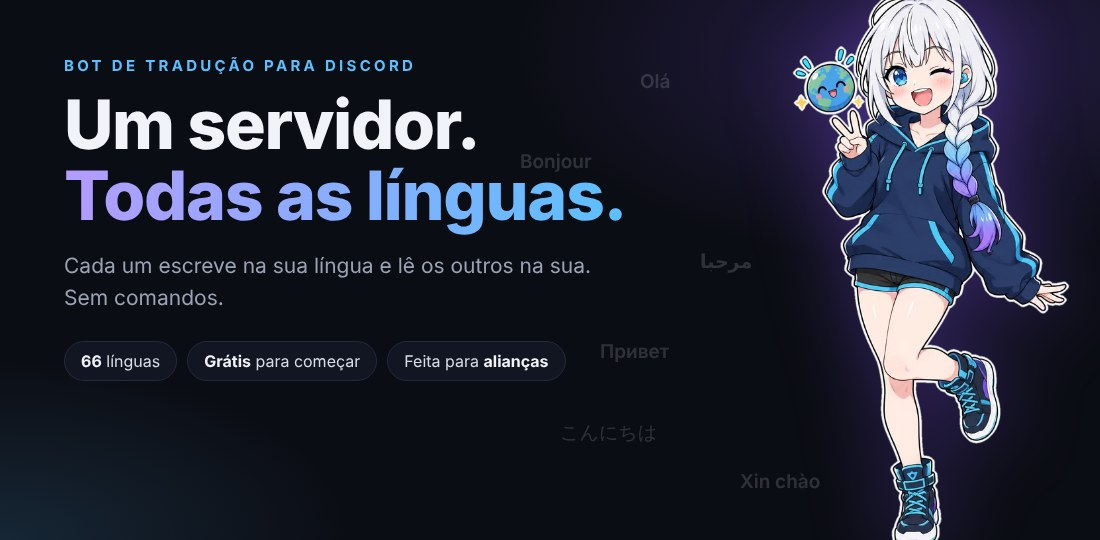
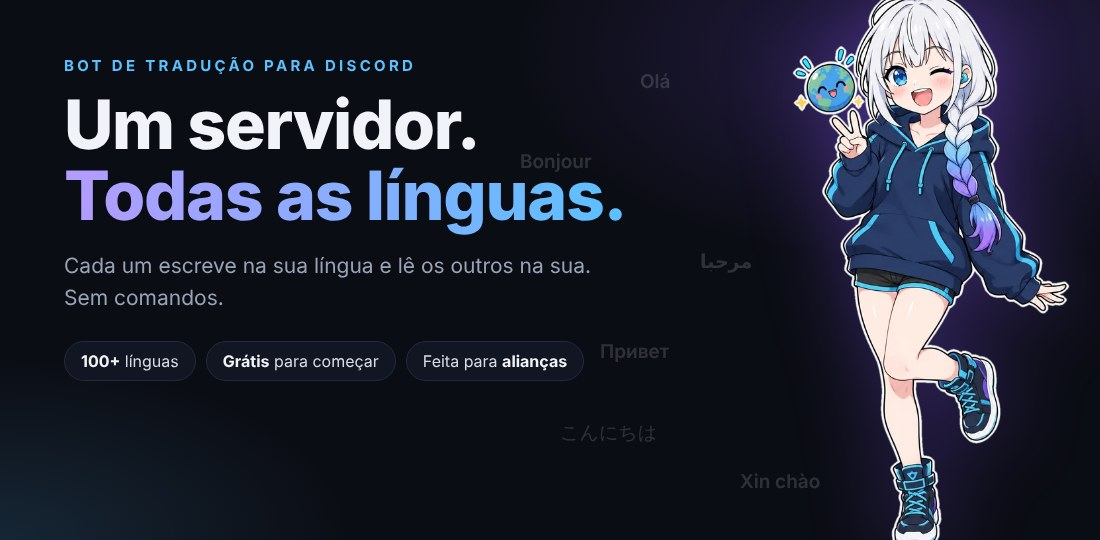
Bandeira: mais de uma língua por país (108 no total) e todas as bandeiras do mundo
- LINGUAS_DO_PAIS: país com várias línguas (Índia, Espanha, Suíça, África
  do Sul, Nigéria, Bélgica, Canadá...) traduz na de sempre e mostra um menu
  no mesmo cartão para escolher outra. É assim que entram as 42 línguas sem
  bandeira própria (tâmil, telugu, catalão, basco, iorubá, galês, curdo...).
- cartaoDaBandeira/cliqueBandeiraLingua: o menu leva servidor, canal,
  mensagem e quem reagiu; só essa pessoa troca, com o limite por minuto.
- BANDEIRAS_DO_RESTO_DO_MUNDO: ilhas e territórios; qualquer bandeira de
  país traduz alguma coisa.
- Azure: curdo vai como kmr (o kurmanji do Google).
- top.gg/site: "100+ línguas", arte didática "Traduza com uma bandeira"
  (reaja → leia no privado → escolha a sua) e o texto da página explicando.

Claude-Session: https://claude.ai/code/session_01KEoVPUpsqnUtDW8kuRSzxb

Changed region(s): [[0.1855, 0.6519, 0.5255, 0.6815], [0.0618, 0.6519, 0.1545, 0.6815]]

diff --git a/discord-bot-gateway/index.js b/discord-bot-gateway/index.js
@@ -736,9 +736,74 @@ const PAIS_DA_BANDEIRA_EXTRA = {
   SR: "nl", SM: "it", VA: "it",
 };
 
+/* O RESTO DAS BANDEIRAS DO MUNDO: ilhas e territorios, cada um com a lingua
+   que a maioria la' le'. Com isto, qualquer bandeira de pais que alguem
+   aperte traduz alguma coisa (so' 🇦🇶 e as que nao sao de pais ficam de fora). */
+const BANDEIRAS_DO_RESTO_DO_MUNDO = {
+  AG: "en", AI: "en", AS: "en", BB: "en", BM: "en", BS: "en", BW: "en", BZ: "en", CC: "en", CK: "en",
+  CX: "en", DM: "en", FJ: "en", FK: "en", FM: "en", GD: "en", GG: "en", GI: "en", GM: "en", GS: "en",
+  GU: "en", GY: "en", HM: "en", IM: "en", IO: "en", JE: "en", KI: "en", KN: "en", KY: "en", LC: "en",
+  LR: "en", LS: "en", MH: "en", MP: "en", MS: "en", MU: "en", NA: "en", NF: "en", NR: "en", NU: "en",
+  PG: "en", PN: "en", PW: "en", SB: "en", SC: "en", SH: "en", SL: "en", SS: "en", SZ: "en", TC: "en",
+  TK: "en", TT: "en", TV: "en", UM: "en", VC: "en", VG: "en", VI: "en", VU: "en", BT: "en",
+  BI: "fr", BL: "fr", CF: "fr", DJ: "fr", GF: "fr", GP: "fr", KM: "fr", MF: "fr", MQ: "fr", NC: "fr",
+  PF: "fr", PM: "fr", RE: "fr", TF: "fr", WF: "fr", YT: "fr",
+  AW: "nl", BQ: "nl", CW: "nl", SX: "nl", AX: "sv", BV: "no", SJ: "no", FO: "da", GL: "da",
+  AD: "ca", EH: "ar", BN: "ms",
+};
+
+/* MAIS DE UMA LINGUA POR BANDEIRA (dono, 24/11: "mais idiomas por bandeira e'
+   justo"). A India fala hindi, tamil, telugu, bengali...; a Espanha, espanhol,
+   catalao, basco e galego. A bandeira traduz na PRIMEIRA (a de sempre) e, no
+   mesmo cartao, oferece as outras num menu: quem reagiu com 🇮🇳 e le' tamil
+   escolhe tamil. E' assim que entram as linguas que nao tem bandeira propria
+   -- nao existe emoji para "tamil" ou "catalao". */
+const LINGUAS_SEM_BANDEIRA = [
+  ["ta", "Tâmil", "🇮🇳", "தமிழ்"], ["te", "Telugu", "🇮🇳", "తెలుగు"], ["mr", "Marati", "🇮🇳", "मराठी"],
+  ["gu", "Guzerate", "🇮🇳", "ગુજરાતી"], ["pa", "Punjabi", "🇮🇳", "ਪੰਜਾਬੀ"], ["kn", "Canarês", "🇮🇳", "ಕನ್ನಡ"],
+  ["ml", "Malaiala", "🇮🇳", "മലയാളം"], ["or", "Oriá", "🇮🇳", "ଓଡ଼ିଆ"], ["as", "Assamês", "🇮🇳", "অসমীয়া"],
+  ["ca", "Catalão", "🇪🇸", "Català"], ["eu", "Basco", "🇪🇸", "Euskara"], ["gl", "Galego", "🇪🇸", "Galego"],
+  ["af", "Africâner", "🇿🇦", "Afrikaans"], ["zu", "Zulu", "🇿🇦", "isiZulu"], ["xh", "Xhosa", "🇿🇦", "isiXhosa"],
+  ["ha", "Hauçá", "🇳🇬", "Hausa"], ["yo", "Iorubá", "🇳🇬", "Yorùbá"], ["ig", "Igbo", "🇳🇬", "Igbo"],
+  ["ceb", "Cebuano", "🇵🇭", "Cebuano"], ["cy", "Galês", "🇬🇧", "Cymraeg"], ["gd", "Gaélico escocês", "🇬🇧", "Gàidhlig"],
+  ["ga", "Irlandês", "🇮🇪", "Gaeilge"], ["lb", "Luxemburguês", "🇱🇺", "Lëtzebuergesch"], ["mi", "Maori", "🇳🇿", "Māori"],
+  ["haw", "Havaiano", "🇺🇸", "ʻŌlelo Hawaiʻi"], ["qu", "Quíchua", "🇵🇪", "Runa Simi"], ["ay", "Aimará", "🇧🇴", "Aymar aru"],
+  ["gn", "Guarani", "🇵🇾", "Avañe'ẽ"], ["ku", "Curdo", "🇮🇶", "Kurdî"], ["ps", "Pashto", "🇦🇫", "پښتو"],
+  ["sd", "Sindi", "🇵🇰", "سنڌي"], ["om", "Oromo", "🇪🇹", "Afaan Oromoo"], ["ti", "Tigrínia", "🇪🇷", "ትግርኛ"],
+  ["tt", "Tártaro", "🇷🇺", "Татар"], ["ug", "Uigur", "🇨🇳", "ئۇيغۇرچە"], ["rw", "Quiniaruanda", "🇷🇼", "Kinyarwanda"],
+  ["ny", "Chichewa", "🇲🇼", "Chichewa"], ["dv", "Divehi", "🇲🇻", "ދިވެހި"], ["si", "Cingalês", "🇱🇰", "සිංහල"],
+  ["fy", "Frísio", "🇳🇱", "Frysk"], ["tg", "Tadjique", "🇹🇯", "Тоҷикӣ"], ["be", "Bielorrusso", "🇧🇾", "Беларуская"],
+];
+
+/* País -> as linguas dele, a primeira e' a que a bandeira usa sem perguntar
+   (a mesma de antes: um teste confere). Ate' 25 por pais, o teto do menu. */
+const LINGUAS_DO_PAIS = {
+  IN: ["hi", "bn", "ta", "te", "mr", "gu", "ur", "pa", "kn", "ml", "or", "as", "en"],
+  ES: ["es", "ca", "eu", "gl"], CH: ["de", "fr", "it"], BE: ["nl", "fr", "de"], CA: ["en", "fr"],
+  ZA: ["en", "af", "zu", "xh"], NG: ["en", "ha", "yo", "ig"], PH: ["tl", "ceb", "en"], GB: ["en", "cy", "gd"],
+  IE: ["en", "ga"], FI: ["fi", "sv"], LU: ["fr", "de", "lb"], SG: ["zh-CN", "en", "ms", "ta"],
+  MY: ["ms", "en", "zh-CN", "ta"], NZ: ["en", "mi"], US: ["en", "es", "haw"], PE: ["es", "qu"],
+  BO: ["es", "qu", "ay"], PY: ["es", "gn"], IQ: ["ar", "ku"], TR: ["tr", "ku"], AF: ["fa", "ps"],
+  PK: ["ur", "pa", "sd", "en"], ET: ["am", "om", "ti"], ER: ["ti", "ar"], RU: ["ru", "tt"], CN: ["zh-CN", "ug"],
+  LK: ["si", "ta"], KE: ["sw", "en"], TZ: ["sw", "en"], NL: ["nl", "fy"], BY: ["ru", "be"], TJ: ["tg", "ru"],
+  IL: ["he", "ar"], MA: ["ar", "fr"], DZ: ["ar", "fr"], TN: ["ar", "fr"], CY: ["el", "tr"], RW: ["rw", "fr", "en"],
+  MW: ["ny", "en"], MV: ["dv", "en"], HT: ["ht", "fr"], CM: ["fr", "en"], KZ: ["kk", "ru"],
+};
+
+/* Pura. As linguas que a bandeira deste pais oferece (a primeira e' a usada). */
+function linguasDaBandeira(emoji) {
+  const pais = paisDaBandeira(emoji);
+  if (!pais) return [];
+  const varias = LINGUAS_DO_PAIS[pais];
+  if (varias?.length) return [...varias];
+  const uma = IDIOMA_DO_PAIS[pais] || PAIS_DA_BANDEIRA_EXTRA[pais] || BANDEIRAS_DO_RESTO_DO_MUNDO[pais];
+  return uma ? [uma] : [];
+}
+
 function idiomaDaBandeira(emoji) {
   const pais = paisDaBandeira(emoji);
-  if (pais) return IDIOMA_DO_PAIS[pais] || PAIS_DA_BANDEIRA_EXTRA[pais] || "";
+  if (pais) return IDIOMA_DO_PAIS[pais] || LINGUAS_DO_PAIS[pais]?.[0] || PAIS_DA_BANDEIRA_EXTRA[pais] ||
+    BANDEIRAS_DO_RESTO_DO_MUNDO[pais] || "";
   /* Lingua cujo sinal no menu nao e' bandeira (a lanterna do chines
      tradicional): reagir com o sinal que o proprio bot mostra traduz. */
   const achado = LINGUAS_MENU.find(([, , sinal]) => sinal === emoji && !paisDaBandeira(sinal));
@@ -1221,7 +1286,9 @@ function decifrar(guardado) {
 }
 
 /* Cada tradutor chama os idiomas do seu jeito. */
-const AZURE_IDIOMA = { "zh-CN": "zh-Hans", "zh-TW": "zh-Hant", tl: "fil", no: "nb", sr: "sr-Cyrl", mn: "mn-Cyrl" };
+const AZURE_IDIOMA = { "zh-CN": "zh-Hans", "zh-TW": "zh-Hant", tl: "fil", no: "nb", sr: "sr-Cyrl", mn: "mn-Cyrl",
+  /* O curdo do Google ("ku") e' o kurmanji; o "ku" da Azure e' o sorani. */
+  ku: "kmr" };
 const DEEPL_IDIOMA = { pt: "PT-BR", en: "EN-US", "zh-CN": "ZH-HANS", "zh-TW": "ZH-HANT", no: "NB" };
 /* O que o DeepL traduz (destino). Fora disso ele recusa -- e recusa nao pode
    virar "o DeepL deste servidor esta' falhando" no painel por causa de uma
@@ -5427,11 +5494,18 @@ const SEGUNDOS_ENTRE_FALAS = 5;
 
 /* Pura. A lingua existe so' na bandeira (nao tem sala nem menu)? */
 function linguaSoDaBandeira(cod) {
-  return LINGUAS_DA_BANDEIRA.some(([c]) => c === cod) && !LINGUAS_MENU.some(([c]) => c === cod);
+  return (LINGUAS_DA_BANDEIRA.some(([c]) => c === cod) || LINGUAS_SEM_BANDEIRA.some(([c]) => c === cod)) &&
+    !LINGUAS_MENU.some(([c]) => c === cod);
+}
+
+/* Pura. A linha da lingua em qualquer das tres tabelas: [codigo, nome, sinal, nome proprio]. */
+function linhaDaLingua(cod) {
+  return LINGUAS_MENU.find(([c]) => c === cod) || LINGUAS_DA_BANDEIRA.find(([c]) => c === cod) ||
+    LINGUAS_SEM_BANDEIRA.find(([c]) => c === cod) || null;
 }
 
 function nomeDoIdioma(cod) {
-  const achado = LINGUAS_MENU.find(([c]) => c === cod) || LINGUAS_DA_BANDEIRA.find(([c]) => c === cod);
+  const achado = linhaDaLingua(cod);
   return achado ? `${achado[2]} ${achado[1]}` : cod;
 }
 
@@ -27739,6 +27813,7 @@ client.on("interactionCreate", async (inter) => {
       if (inter.customId === "escolher-idioma") return await cliqueEscolherIdioma(inter);
       if (inter.customId.startsWith("traduzir-msg:")) return await cliqueTraduzirMsg(inter);
       if (inter.customId.startsWith("traduzir-fixo:")) return await cliqueTraduzirFixo(inter);
+      if (inter.customId.startsWith("bandeira:")) return await cliqueBandeiraLingua(inter);
       return;
     }
     /* Autocompletar do nome do evento: sem isto o oficial teria que digitar
@@ -28217,20 +28292,8 @@ client.on("messageReactionAdd", async (reacao, quem) => {
       return;
     }
 
-    /* Quem falou vem no cabecalho porque, no privado, a fala chega fora da
-       sala: sem o nome e sem o link de volta, e' um texto solto que a pessoa
-       nao consegue situar nem responder. */
-    const autor = msg.member?.displayName || msg.author?.username || "";
-    const onde = await entregarNoPrivado(quem, msg.channel, {
-      embeds: [{
-        color: COR,
-        author: autor ? { name: autor, icon_url: msg.author?.displayAvatarURL?.() } : undefined,
-        title: nomeDoIdioma(idioma),
-        description: traduzido.slice(0, 3800) + (msg.url ? `\n\n[⤴ Voltar / Back](${msg.url})` : "") +
-          rodapeDeDivulgacao(servidor),
-        footer: { text: `#${msg.channel?.name || ""} · ${msg.guild.name}` },
-      }],
-    });
+    const onde = await entregarNoPrivado(quem, msg.channel,
+      cartaoDaBandeira(msg, idioma, traduzido, rodapeDeDivulgacao(servidor), linguasDaBandeira(reacao.emoji?.name), quem.id));
     if (!onde) return; // nem privado nem sala: nao ha o que limpar
     contarUso("bandeira", msg.guild.id);
 
@@ -28244,6 +28307,74 @@ client.on("messageReactionAdd", async (reacao, quem) => {
     console.error("bandeira: nao consegui traduzir:", e?.message || e);
   }
 });
+
+/* O cartao da traducao por bandeira, o mesmo na reacao e na troca de lingua.
+
+   Quem falou vem no cabecalho porque, no privado, a fala chega fora da sala:
+   sem o nome e sem o link de volta, e' um texto solto que a pessoa nao
+   consegue situar nem responder.
+
+   Pais com mais de uma lingua ganha um menu embaixo, com uma frase curta
+   dizendo o que ele faz -- didatico, nas duas linguas, porque quem reagiu
+   ainda nao escolheu a dele. O menu leva no nome o servidor, o canal, a
+   mensagem e QUEM reagiu: no privado so' essa pessoa o ve; na sala (privado
+   fechado), so' ela consegue usar. */
+function cartaoDaBandeira(msg, idioma, traduzido, rodape = "", linguas = [], quem = "") {
+  const autor = msg.member?.displayName || msg.author?.username || "";
+  const outras = (linguas || []).filter((l) => l !== idioma && linhaDaLingua(l)).slice(0, 25);
+  const varias = outras.length > 0;
+  return {
+    embeds: [{
+      color: COR,
+      author: autor ? { name: autor, icon_url: msg.author?.displayAvatarURL?.() } : undefined,
+      title: nomeDoIdioma(idioma),
+      description: String(traduzido || "").slice(0, 3800) + (msg.url ? `\n\n[⤴ Voltar / Back](${msg.url})` : "") +
+        (varias ? "\n\n-# 🌐 Este país fala mais de uma língua: escolha outra no menu · " +
+          "This country speaks more than one language: pick another below" : "") + rodape,
+      footer: { text: `#${msg.channel?.name || ""} · ${msg.guild?.name || ""}` },
+    }],
+    ...(varias ? { components: [{ type: 1, components: [{
+      type: 3,
+      custom_id: `bandeira:${msg.guild?.id}:${msg.channel?.id}:${msg.id}:${quem}`.slice(0, 100),
+      placeholder: "🌐 Outra língua · Another language",
+      options: [idioma, ...outras].map((l) => {
+        const [, nome, sinal, proprio] = linhaDaLingua(l);
+        return { label: (proprio && proprio !== nome ? `${proprio} · ${nome}` : nome).slice(0, 100), value: l,
+          emoji: { name: sinal }, default: l === idioma };
+      }),
+    }] }] } : {}),
+  };
+}
+
+/* A troca de lingua no menu do cartao: traduz a mesma mensagem para a lingua
+   escolhida e redesenha o cartao no lugar. So' quem reagiu troca. */
+async function cliqueBandeiraLingua(inter) {
+  const [, guildId, canalId, msgId, dono] = inter.customId.split(":");
+  const lingua = inter.values?.[0];
+  if (dono && inter.user.id !== dono) {
+    return inter.reply({ flags: 64, content: "🌐 Esse menu é de quem reagiu com a bandeira. Reaja você também!\n" +
+      "_This menu belongs to whoever reacted. React with the flag yourself!_" });
+  }
+  if (!lingua || !linhaDaLingua(lingua)) return inter.deferUpdate().catch(() => {});
+  if (!podeTraduzirAgora(inter.user.id)) {
+    return inter.reply({ flags: 64, content: "⏳ Calma aí, tente de novo em um minuto. · _Slow down, try again in a minute._" });
+  }
+  await inter.deferUpdate();
+  const canal = await client.channels.fetch(canalId).catch(() => null);
+  const msg = canal?.messages ? await canal.messages.fetch(msgId).catch(() => null) : null;
+  const texto = msg ? textoDaMensagem(msg) : "";
+  if (!texto) {
+    return inter.followUp({ flags: 64, content: "A mensagem original não existe mais. · _The original message is gone._" }).catch(() => {});
+  }
+  const servidor = await servidorDoGuild(guildId).catch(() => null);
+  const traduzido = await traduzirLongo(texto, lingua, motorDe(servidor));
+  if (!traduzido) {
+    return inter.followUp({ flags: 64, content: "❌ Não consegui traduzir agora. · _Could not translate right now._" }).catch(() => {});
+  }
+  const linguas = (inter.message?.components?.[0]?.components?.[0]?.options || []).map((o) => o.value);
+  contarUso("bandeira", guildId);
+  return inter.editReply(cartaoDaBandeira(msg, lingua, traduzido, rodapeDeDivulgacao(servidor), linguas, dono));
+}
 
 /* ---------------- os comandos que aparecem em cada servidor -----------------
 

diff --git a/video-divulgacao/arte-topgg.html b/video-divulgacao/arte-topgg.html
@@ -79,6 +79,14 @@
   .nao li::before { content:"✕"; background:rgba(154,163,181,.14); color:var(--fraco) }
   .sim li::before { content:"✓"; background:linear-gradient(135deg,var(--roxo),var(--azul)); color:#fff }
 
+  /* a bandeira em três passos */
+  .passo { position:relative }
+  .passo .num { position:absolute; top:18px; right:20px; width:30px; height:30px; border-radius:50%; display:grid; place-items:center;
+    font-weight:800; font-size:15px; background:linear-gradient(135deg,var(--roxo),var(--azul)) }
+  .pilhas { display:flex; flex-wrap:wrap; gap:8px; margin-top:14px }
+  .pilhas span { border:1px solid var(--borda); border-radius:999px; padding:5px 12px; font-size:15px; color:#D8DCE7 }
+  .pilhas .sel { border-color:transparent; background:linear-gradient(90deg,var(--roxo),var(--azul)); color:#fff; font-weight:700 }
+
   /* botão */
   #botao { height:210px; display:none; place-items:center; padding:0 }
   #botao.ativa { display:grid }
@@ -159,6 +167,16 @@
   </div>
 </section>
 
+<section class="parte" id="bandeira">
+  <h2 data-t="bd"></h2>
+  <div class="grade" style="grid-template-columns:repeat(3,1fr)">
+    <div class="cartao passo"><div class="num">1</div><div class="ic">🇮🇳</div><h3 data-t="bd1t"></h3><p data-t="bd1"></p></div>
+    <div class="cartao passo"><div class="num">2</div><div class="ic">📩</div><h3 data-t="bd2t"></h3><p data-t="bd2"></p></div>
+    <div class="cartao passo"><div class="num">3</div><div class="ic">🌐</div><h3 data-t="bd3t"></h3><p data-t="bd3"></p>
+      <div class="pilhas"><span>हिन्दी</span><span class="sel">தமிழ்</span><span>తెలుగు</span><span>বাংলা</span></div></div>
+  </div>
+</section>
+
 <section class="parte" id="botao">
   <div class="bt"><span class="mais">+</span> <span data-t="bt"></span> <small data-t="btSub"></small></div>
 </section>
@@ -168,11 +186,11 @@ const TEXTOS = {
   en: {
     rotulo: "Discord translation bot", titulo1: "One server.", titulo2: "Every language.",
     sub: "Everyone writes in their own language and reads everyone else in theirs. No commands.",
-    chip1: "<b>66</b> languages", chip2: "<b>Free</b> to start", chip3: "Built for <b>alliances</b>",
+    chip1: "<b>100+</b> languages", chip2: "<b>Free</b> to start", chip3: "Built for <b>alliances</b>",
     como: "Same conversation, every language", escreveu: "written in Portuguese",
     comoSub: "Each member picks a language and chats in their own room. Every message lands in the other rooms, translated, with the author's name and avatar.",
     recursos: "Translation everywhere",
-    r1t: "React with a flag", r1: "Any message, in 66 languages, translated privately for whoever reacted.",
+    r1t: "React with a flag", r1: "Any message, in 100+ languages, privately. Several languages in a country? Pick yours.",
     r2t: "Announcements", r2: "Post once, it lands in every language.",
     r3t: "Screenshots", r3: "Reads the text in an image and translates it.",
     r4t: "Voice notes", r4: "Transcribed and translated.",
@@ -183,20 +201,23 @@ const TEXTOS = {
     k2t: "Hero book", k2: "Every hero, with tips to lead and join rallies.",
     k3t: "Duels & levels", k3: "Hero cards, duels, levels, role panels and welcome images.",
     bt: "Add CYRON to Discord", btSub: "free",
+    bd: "Translate with a flag", bd1t: "React with a flag", bd1: "Any country flag, on any message.",
+    bd2t: "Read it in private", bd2: "The translation arrives in your DMs. Nobody else sees it.",
+    bd3t: "Several languages?", bd3: "Countries like India, Spain or Switzerland let you pick yours.",
     cmp: "Why CYRON", cmpOutro: "Typical free plan",
     o1: "100 translations a month per member, or 10,000 characters", o2: "Vote to unlock more quota",
     o3: "You link channels by hand, one by one", o4: "Translation only",
     c1: "Flag and translate button with no limit, free", c2: "Members pick a language at the door; CYRON builds the rooms",
-    c3: "Kingshot tools: Bear Trap card, hero book, events in every time zone", c4: "Flag translation in 66 languages, language rooms in 22",
+    c3: "Kingshot tools: Bear Trap card, hero book, events in every time zone", c4: "Flag translation in 100+ languages, language rooms in 22",
   },
   pt: {
     rotulo: "Bot de tradução para Discord", titulo1: "Um servidor.", titulo2: "Todas as línguas.",
     sub: "Cada um escreve na sua língua e lê os outros na sua. Sem comandos.",
-    chip1: "<b>66</b> línguas", chip2: "<b>Grátis</b> para começar", chip3: "Feita para <b>alianças</b>",
+    chip1: "<b>100+</b> línguas", chip2: "<b>Grátis</b> para começar", chip3: "Feita para <b>alianças</b>",
     como: "A mesma conversa, em todas as línguas", escreveu: "escrito em português",
     comoSub: "Cada membro escolhe a língua e conversa na sala dele. Cada mensagem chega nas outras salas traduzida, com o nome e a foto de quem escreveu.",
     recursos: "Tradução em todo lugar",
-    r1t: "Reaja com uma bandeira", r1: "Qualquer mensagem, em 66 línguas, traduzida no privado de quem reagiu.",
+    r1t: "Reaja com uma bandeira", r1: "Qualquer mensagem, em mais de 100 línguas, no privado. País com várias? Você escolhe.",
     r2t: "Avisos", r2: "Você posta uma vez e chega em todas as línguas.",
     r3t: "Prints", r3: "Lê o texto da imagem e traduz.",
     r4t: "Áudios", r4: "Transcritos e traduzidos.",
@@ -207,11 +228,14 @@ const TEXTOS = {
     k2t: "Livro dos heróis", k2: "Cada herói, com dicas para liderar e entrar em rally.",
     k3t: "Duelos e níveis", k3: "Cartas de herói, duelos, níveis, painel de cargos e boas-vindas.",
     bt: "Adicionar a CYRON", btSub: "grátis",
+    bd: "Traduza com uma bandeira", bd1t: "Reaja com a bandeira", bd1: "De qualquer país, em qualquer mensagem.",
+    bd2t: "Leia no privado", bd2: "A tradução chega no seu privado. Ninguém mais vê.",
+    bd3t: "Várias línguas?", bd3: "País como Índia, Espanha ou Suíça deixa você escolher a sua.",
     cmp: "Por que a CYRON", cmpOutro: "Plano grátis comum",
     o1: "100 traduções por mês por pessoa, ou 10 mil caracteres", o2: "Votar para ganhar mais cota",
     o3: "Você liga canal com canal, na mão", o4: "Só tradução",
     c1: "Bandeira e botão de tradução sem limite, de graça", c2: "Cada um escolhe a língua na entrada e a CYRON monta as salas",
-    c3: "Ferramentas de Kingshot: Urso, livro dos heróis, eventos no fuso de cada um", c4: "Bandeira em 66 línguas, salas em 22",
+    c3: "Ferramentas de Kingshot: Urso, livro dos heróis, eventos no fuso de cada um", c4: "Bandeira em mais de 100 línguas, salas em 22",
   },
 };
 const q = new URLSearchParams(location.search);

diff --git a/discord-bot-gateway/testes.js b/discord-bot-gateway/testes.js
@@ -202,6 +202,7 @@ Object.assign(globalThis, carregar(["TIPOS_DAS_SALAS_DO_JOGO"]));
 /* As linguas que so' a bandeira atende: a bandeira, o nome do idioma e os
    motores consultam estas tabelas. */
 Object.assign(globalThis, carregar(["paisDaBandeira", "LINGUAS_DA_BANDEIRA", "PAIS_DA_BANDEIRA_EXTRA",
+  "BANDEIRAS_DO_RESTO_DO_MUNDO", "LINGUAS_SEM_BANDEIRA", "LINGUAS_DO_PAIS",
   "linguaSoDaBandeira", "DEEPL_ACEITA", "motorAceita"]));
 /* O import do index que o FUNCOES usa (a função dos códigos nasce ligada nos servidores de Kingshot). */
 Object.assign(globalThis, { pareceKingshot: (await import("./codigos-jogo.js")).pareceKingshot });
@@ -2597,6 +2598,48 @@ function conferirCartao(onde, embed, componentes = []) {
      marcado como falhando no painel. */
   verdade("o DeepL é pulado nas línguas que ele não tem", !motorAceita("deepl", "mn") && motorAceita("deepl", "el") &&
     motorAceita("azure", "mn") && motorAceita("auto", "mn"));
+
+  /* MAIS DE UMA LÍNGUA POR BANDEIRA: a bandeira traduz na primeira (a de
+     sempre) e oferece as outras num menu no mesmo cartão. É por aqui que
+     entram as línguas sem bandeira própria (tâmil, catalão, iorubá...). */
+  {
+    const { linguasDaBandeira, linhaDaLingua, nomeDoIdioma, cartaoDaBandeira } =
+      carregar(["linguasDaBandeira", "linhaDaLingua", "nomeDoIdioma", "cartaoDaBandeira"]);
+    const bandeiraDe = (pais) => [...pais].map((c) => String.fromCodePoint(0x1f1e6 + c.charCodeAt(0) - 65)).join("");
+    const errados = Object.entries(LINGUAS_DO_PAIS)
+      .filter(([pais, ls]) => idiomaDaBandeira(bandeiraDe(pais)) !== ls[0] || ls.some((l) => !linhaDaLingua(l)) || ls.length > 25)
+      .map(([pais]) => pais);
+    ok("em todo país com várias línguas, a primeira é a de sempre, e todas têm nome", errados, []);
+    ok("Índia: hindi primeiro, e tâmil no menu", [linguasDaBandeira("🇮🇳")[0], linguasDaBandeira("🇮🇳").includes("ta")], ["hi", true]);
+    ok("Espanha: espanhol, catalão, basco e galego", linguasDaBandeira("🇪🇸"), ["es", "ca", "eu", "gl"]);
+    ok("país de uma língua só não ganha menu", linguasDaBandeira("🇯🇵"), ["ja"]);
+    ok("Andorra lê em catalão", idiomaDaBandeira("🇦🇩"), "ca");
+    ok("e uma ilha do Caribe, em inglês", idiomaDaBandeira("🇧🇧"), "en");
+    ok("nome de língua sem bandeira própria", nomeDoIdioma("ta"), "🇮🇳 Tâmil");
+    const todas = new Set([...LINGUAS_MENU, ...LINGUAS_DA_BANDEIRA, ...LINGUAS_SEM_BANDEIRA].map(([c]) => c));
+    verdade(`passa de 100 línguas (tem ${todas.size})`, todas.size >= 100);
+    ok("e nenhuma língua aparece em duas tabelas", todas.size,
+      LINGUAS_MENU.length + LINGUAS_DA_BANDEIRA.length + LINGUAS_SEM_BANDEIRA.length);
+
+    globalThis.COR = globalThis.COR || 0x5865F2;
+    const msg = { id: "m1", url: "https://discord.com/channels/g1/c1/m1", guild: { id: "g1", name: "Servidor" },
+      channel: { id: "c1", name: "geral" }, author: { username: "ana", displayAvatarURL: () => "https://x/a.png" },
+      member: { displayName: "Ana" } };
+    const cartao = cartaoDaBandeira(msg, "hi", "नमस्ते", "", linguasDaBandeira("🇮🇳"), "u1");
+    const menu = cartao.components?.[0]?.components?.[0];
+    verdade("Índia: o cartão traz o menu das outras línguas", menu?.type === 3 && menu.options.length === 13);
+    ok("com o nome que diz servidor, canal, mensagem e quem reagiu", menu?.custom_id, "bandeira:g1:c1:m1:u1");
+    verdade("a língua mostrada vem marcada", menu.options.find((o) => o.default)?.value === "hi");
+    verdade("e uma frase curta explicando, nas duas línguas",
+      /mais de uma língua/.test(cartao.embeds[0].description) && /more than one language/.test(cartao.embeds[0].description));
+    const simples = cartaoDaBandeira(msg, "ja", "こんにちは", "", ["ja"], "u1");
+    verdade("país de uma língua: cartão sem menu e sem a frase", !simples.components && !/mais de uma língua/.test(simples.embeds[0].description));
+    const fonte2 = semComentarios(readFileSync(`${aqui}/index.js`, "utf8"));
+    verdade("o menu da bandeira é tratado", /inter\.customId\.startsWith\("bandeira:"\)\) return await cliqueBandeiraLingua\(inter\)/.test(fonte2));
+    const clique = semComentarios(pedaco("cliqueBandeiraLingua"));
+    verdade("só quem reagiu troca a língua", /if \(dono && inter\.user\.id !== dono\)/.test(clique));
+    verdade("e a troca respeita o limite por minuto", /podeTraduzirAgora\(inter\.user\.id\)/.test(clique));
+  }
   ok("joinha não vira idioma", idiomaDaBandeira("👍"), "");
 
   /* Regressão que importa: se alguém trocar a bandeira de uma linha do menu,

diff --git a/discord-bot-gateway/topgg-pagina.js b/discord-bot-gateway/topgg-pagina.js
@@ -61,9 +61,13 @@ export function paginaDoTopgg({ beta = false } = {}) {
         "- Typical free plans stop at around 100 translations a month per member (or 10,000 characters), and ask for votes to unlock more.",
         "- CYRON's flag and translate button have no monthly limit. Members pick a language at the door and CYRON builds the rooms — no linking channels by hand. And it ships Kingshot tools no translator has.",
         "",
+        "## Translate with a flag",
+        arte("bandeira", "en", "React with a flag, read it in private, pick your language"),
+        "React with any country flag and the translation arrives in your DMs. Countries with several languages let you pick yours.",
+        "",
         "## Translation everywhere",
         arte("recursos", "en", "Flags, announcements, screenshots, voice notes, glossary and events"),
-        "- 🏳 **React with a flag** — any message, in **66 languages**, translated privately for whoever reacted.",
+        "- 🏳 **React with a flag** — any message, in **100+ languages**, translated privately for whoever reacted. Country with several languages (🇮🇳 🇪🇸 🇨🇭)? Pick yours from a menu.",
         "- 📢 **Announcements** — post once, it lands in every language.",
         "- 🖼 **Screenshots** — reads the text in an image and translates it.",
         "- 🎧 **Voice notes** — transcribed and translated.",
@@ -107,9 +111,13 @@ export function paginaDoTopgg({ beta = false } = {}) {
         "- Os planos grátis comuns param em umas 100 traduções por mês por pessoa (ou 10 mil caracteres) e pedem voto para liberar mais.",
         "- Na CYRON a bandeira e o botão de tradução não têm limite mensal. Cada um escolhe a língua na entrada e a CYRON monta as salas — sem ligar canal na mão. E ela traz ferramentas de Kingshot que nenhum tradutor tem.",
         "",
+        "## Traduza com uma bandeira",
+        arte("bandeira", "pt", "Reaja com a bandeira, leia no privado, escolha sua língua"),
+        "Reaja com a bandeira de qualquer país e a tradução chega no seu privado. País com várias línguas deixa você escolher a sua.",
+        "",
         "## Tradução em todo lugar",
         arte("recursos", "pt", "Bandeiras, avisos, prints, áudios, glossário e eventos"),
-        "- 🏳 **Reaja com uma bandeira** — qualquer mensagem, em **66 línguas**, traduzida no privado de quem reagiu.",
+        "- 🏳 **Reaja com uma bandeira** — qualquer mensagem, em **mais de 100 línguas**, traduzida no privado de quem reagiu. País com várias línguas (🇮🇳 🇪🇸 🇨🇭)? Você escolhe a sua num menu.",
         "- 📢 **Avisos** — você posta uma vez e chega em todas as línguas.",
         "- 🖼 **Prints** — lê o texto da imagem e traduz.",
         "- 🎧 **Áudios** — transcritos e traduzidos.",

diff --git a/cyron/index.html b/cyron/index.html
@@ -238,7 +238,7 @@ html[lang="en"] [data-en]{display:revert}
   "operatingSystem": "Discord",
   "url": "https://hicyron.github.io/",
   "image": "https://hicyron.github.io/img/cyron-og.jpg",
-  "description": "Discord bot that translates a whole server in real time: one chat room per language, every message mirrored and translated into the other rooms, plus flag-reaction translation. Language rooms in 22 languages; flag translation in 66. Built for multilingual communities and gaming alliances, with Kingshot tools (Bear Trap card, hero book, events in every time zone). Listed on Top.gg.",
+  "description": "Discord bot that translates a whole server in real time: one chat room per language, every message mirrored and translated into the other rooms, plus flag-reaction translation. Language rooms in 22 languages; flag translation in 100+. Built for multilingual communities and gaming alliances, with Kingshot tools (Bear Trap card, hero book, events in every time zone). Listed on Top.gg.",
   "inLanguage": ["en", "pt", "es", "fr", "de", "it", "nl", "pl", "ru", "uk", "tr", "ar", "hi", "zh-CN", "zh-TW", "ja", "ko", "id", "ms", "th", "vi", "fil"],
   "offers": { "@type": "Offer", "price": "0", "priceCurrency": "USD", "description": "Free plan forever; Alliance plan free during beta" },
   "installUrl": "https://discord.com/oauth2/authorize?client_id=1498142929041096856&permissions=327223209040&scope=bot%20applications.commands",
